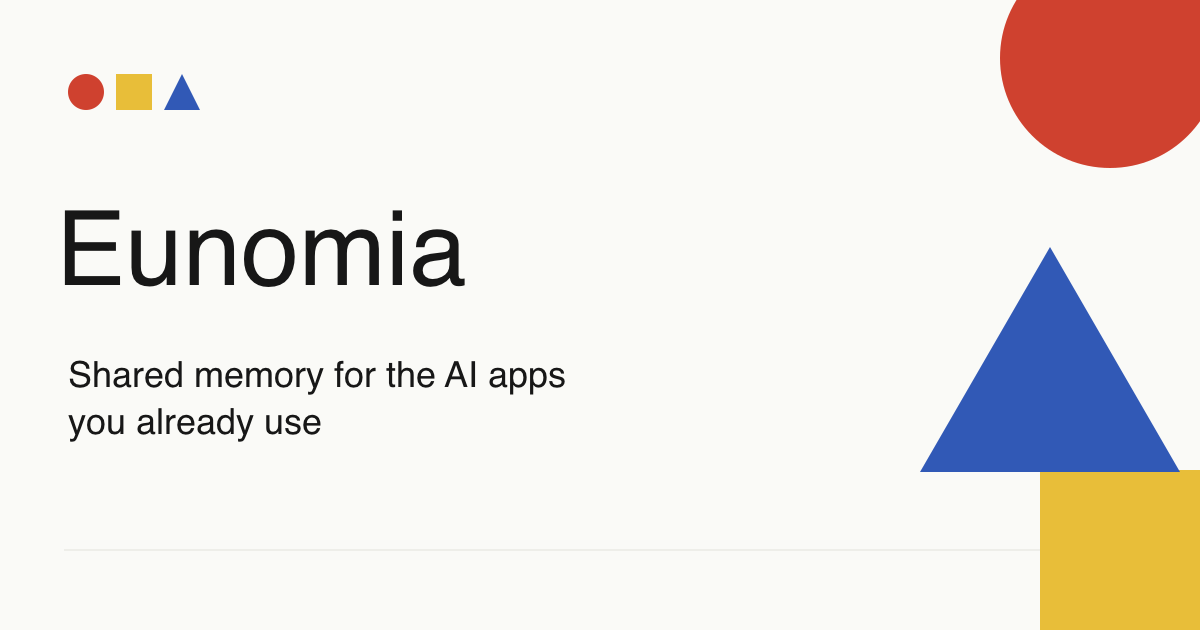
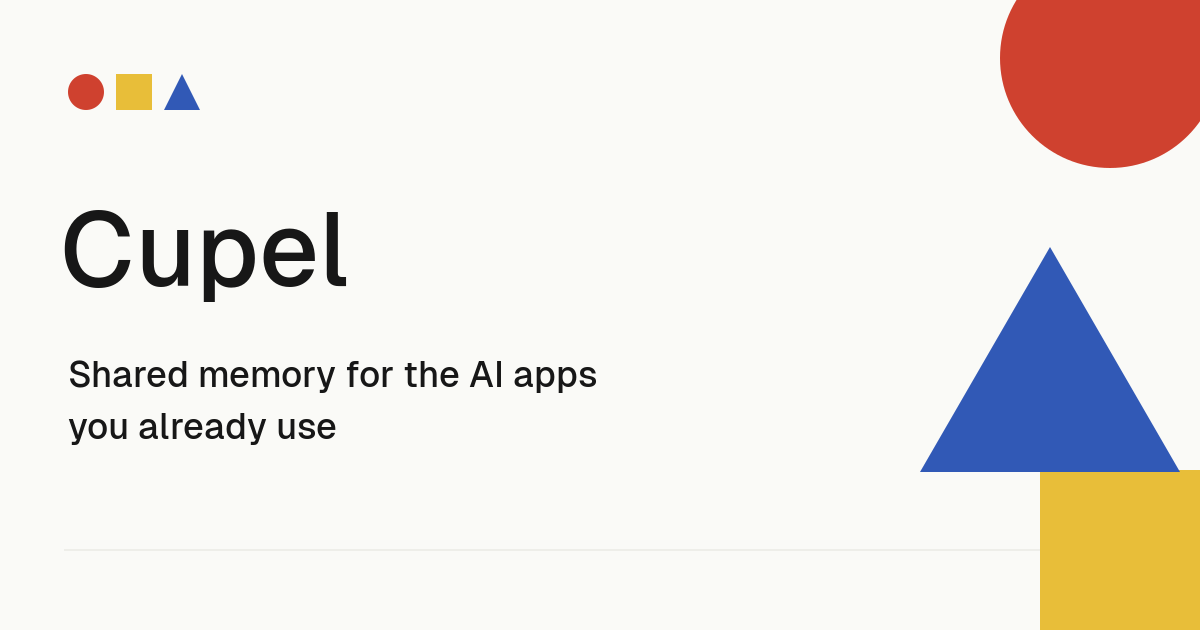
frontend: regenerate the social preview images with the Cupel wordmark; docs wording
Only opengraph-image.png and twitter-image.png change (scripts/brand-assets.mjs).

Changed region(s): [[0.0308, 0.3317, 0.4008, 0.4825], [0.0617, 0.573, 0.4933, 0.7238]]

diff --git a/docs/peer-vaults.md b/docs/peer-vaults.md
@@ -31,7 +31,7 @@ copy of the space, and the copies keep each other in step by themselves.
 | A change failed its integrity check | Something arrived damaged or altered and was refused. See below. |
 | Sharing stopped. Your copy stays here. | The other side stopped sharing. Your copy is now a normal space. |
 
-**Copies match ✓** means both Eunomias computed the same fingerprint of everything shared. Each
+**Copies match ✓** means both Cupel instances computed the same fingerprint of everything shared. Each
 Cupel also shows a short **ID** (like `3f9a-07c2`): the share code's maker can compare it with what the
 joiner sees, to be sure they reached the right one.
 
